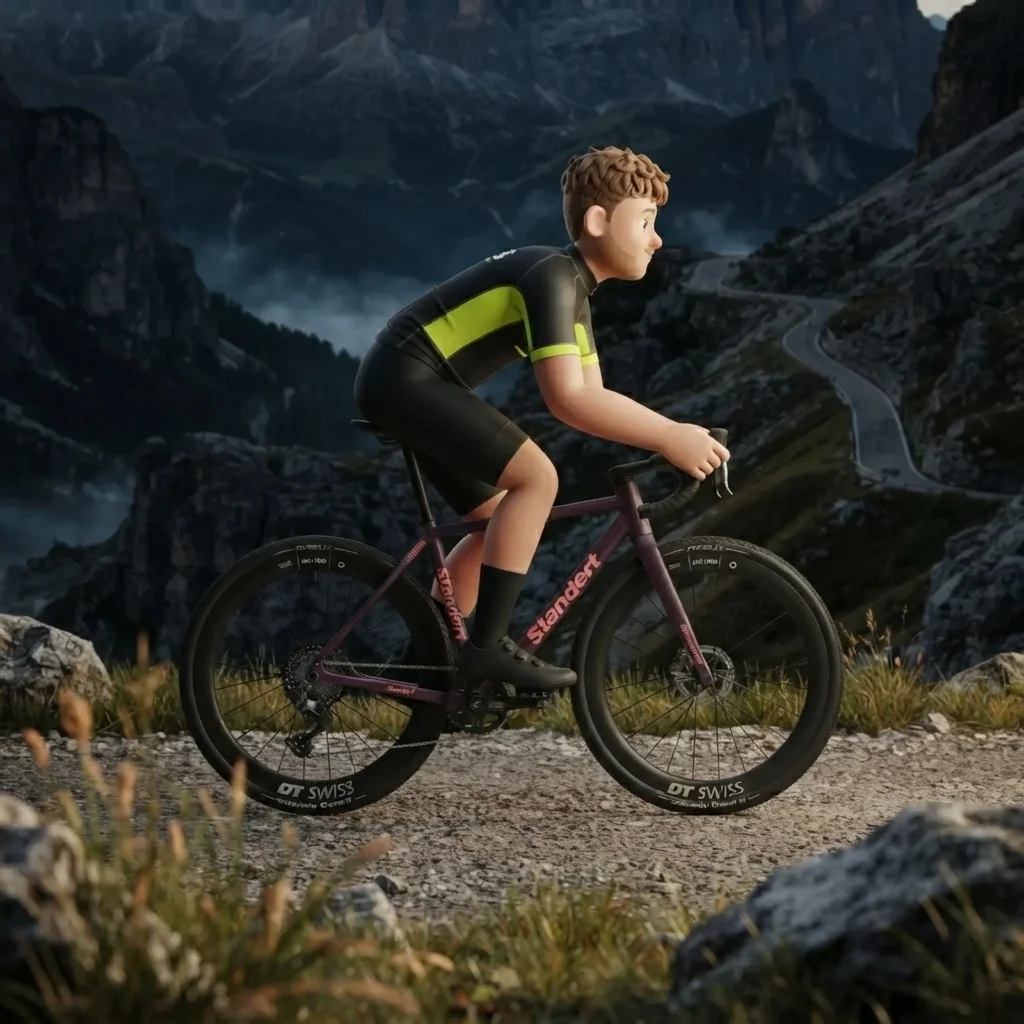
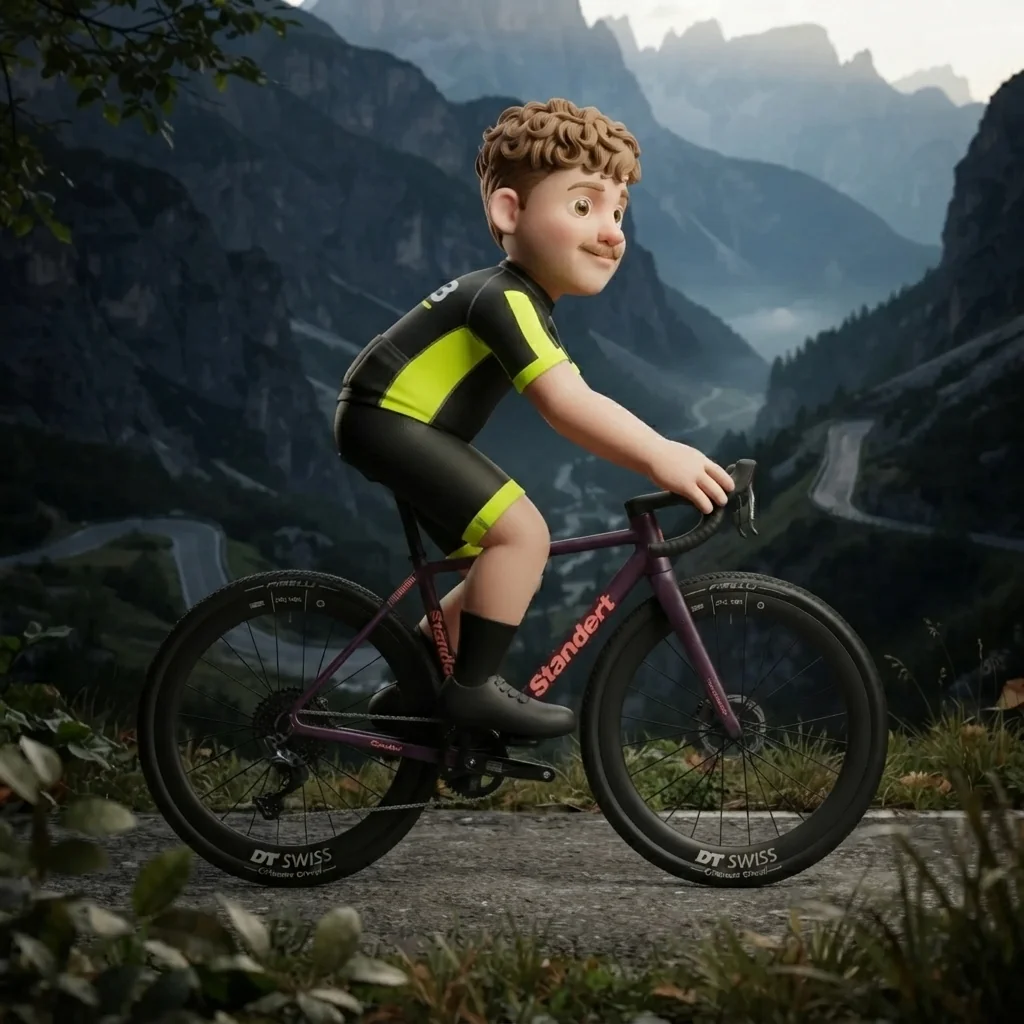
fix(studio): facial-hair density, and simplification that stopped at adult
Two corrections found by looking at the render rather than the diff.

FACIAL HAIR WAS BEING INVENTED. A prominent moustache with light jaw stubble
came back as a full connected beard — the single most common way this likeness
goes wrong, because "stubble" reads to the model as hair to model rather than
as a tone. The vision pass now reports DENSITY and coverage explicitly (clean
cheeks, a shadow along the jaw, a full beard), and the style renders only what
is called full as geometry: light stubble is the faintest shift in skin tone
across an otherwise unbroken matte surface.

THEN THE SIMPLIFICATION OVERSHOT. With the beard corrected the face slid all
the way to a child — big round head, tiny features, soft everything — which
costs exactly the recognisability the simplification was supposed to preserve.
Stylising a face has that pull by default, so the style now names it: keep an
adult's read, a defined jaw beneath the soft surfacing, cheekbones as gentle
planes, features scaled to a grown face. Simplified, never infantilised.

Verified end to end on the owner's own photo, bike and a Maratona GPX: the
curly volume and the moustache carry the likeness, cheeks are clean, the kit
shows its flatlock seams and zip, the frame reads "Standert", and the same
character rides through to the scene.

diff --git a/backend/app/services/cyclr_studio.py b/backend/app/services/cyclr_studio.py
@@ -109,6 +109,14 @@ CHARACTER_STYLE = (
     "avatar, and they should be delighted by it — charming, a little cool, genuinely appealing. "
     "Flattering, always.\n\n"
 
+    "THEY ARE A GROWN ADULT, and the simplification must not cost them that. Stylising a face "
+    "tends to slide it toward a child — big round head, tiny features, soft everything — and the "
+    "result stops looking like the person. Keep an adult's read: a defined jaw beneath the soft "
+    "surfacing, cheekbones that show as gentle planes, a nose and mouth scaled to an adult face, "
+    "eyebrows with real weight and shape, and a neck that carries the head. Confident and grown "
+    "up, in their late twenties or thirties unless the description says otherwise — simplified, "
+    "never infantilised.\n\n"
+
     "THE LIKENESS lives in exactly four things, and every one of them is reproduced faithfully "
     "from the description: the hair — its precise cut, length, colour, parting and curl pattern; "
     "the facial hair — the exact shape and colour of the moustache or beard; the skin tone and "
@@ -118,6 +126,14 @@ CHARACTER_STYLE = (
     "real volume, and the moustache is a crisp, well-groomed shape. Resist adding fine realistic "
     "detail to the skin in pursuit of the likeness — the four anchors already carry it, and "
     "realism only makes the result less appealing.\n\n"
+
+    "FACIAL HAIR DENSITY IS RENDERED LITERALLY, and it is where this style most often flatters "
+    "someone into a stranger. Only hair the description calls FULL is modelled as geometry with "
+    "volume. Light stubble or a shadow along the jaw is not hair at all here — it is the faintest "
+    "shift in skin tone across that area, barely there, with the smooth matte surface completely "
+    "unbroken. A prominent moustache above bare, softly-shaded cheeks stays exactly that: do not "
+    "thicken the jaw, do not join the moustache to a beard, and do not add hair the description "
+    "did not mention.\n\n"
 
     "THE BODY is small beneath that big head, soft and chunky: thick tubular arms and legs with "
     "generous rounded volume, full shoulders, plump forearms and calves, and simple mitten hands "
@@ -216,8 +232,12 @@ _ANALYSIS = {
         "Cover exactly these, in a short flowing paragraph:\n"
         "1. HAIR — the single most identifying feature. Its exact colour, length, cut, parting, "
         "and whether it is straight, wavy, curly or coily, plus how much volume it has.\n"
-        "2. FACIAL HAIR — the exact shape and colour of any moustache, beard or stubble, or state "
-        "plainly that there is none.\n"
+        "2. FACIAL HAIR — its exact shape, colour AND DENSITY. Be precise about how much there "
+        "actually is and exactly where it grows: say whether the moustache is the prominent "
+        "feature and the rest is only faint stubble, or whether there is a genuinely full beard. "
+        "Name the coverage — clean-shaven cheeks, a shadow along the jaw, a connected beard — "
+        "because an artist will otherwise render more hair than the person has, which is the "
+        "single most common way this likeness goes wrong. If there is none, say so plainly.\n"
         "3. SKIN TONE and ethnic features — described accurately and respectfully. This must be "
         "reproduced truthfully and must never be lightened or altered.\n"
         "4. THE OVERALL SHAPE of the face — round, square, long, heart-shaped — and eye colour.\n\n"
